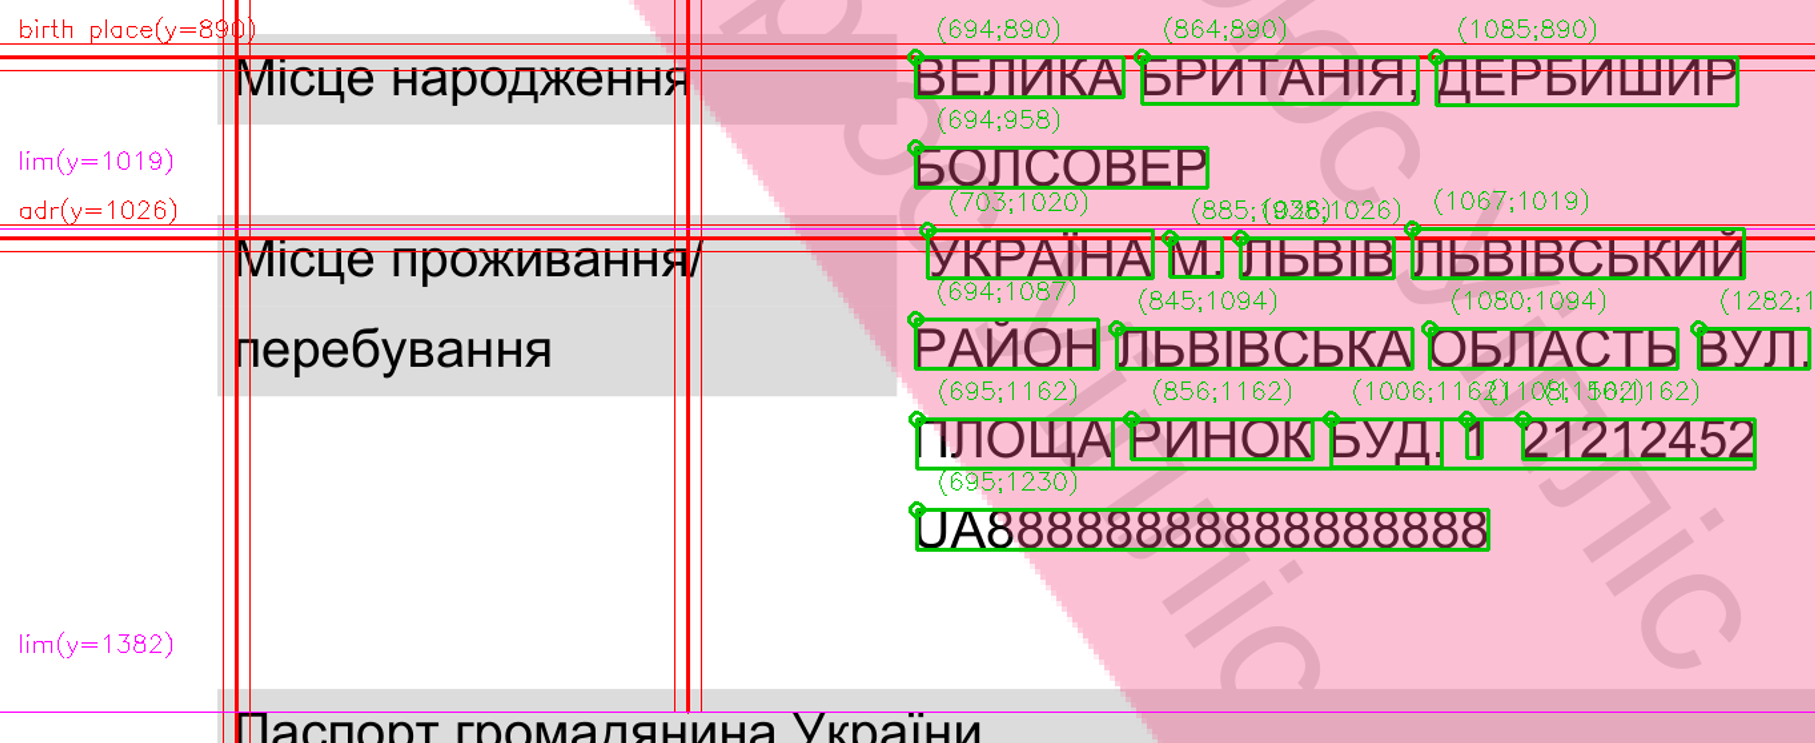
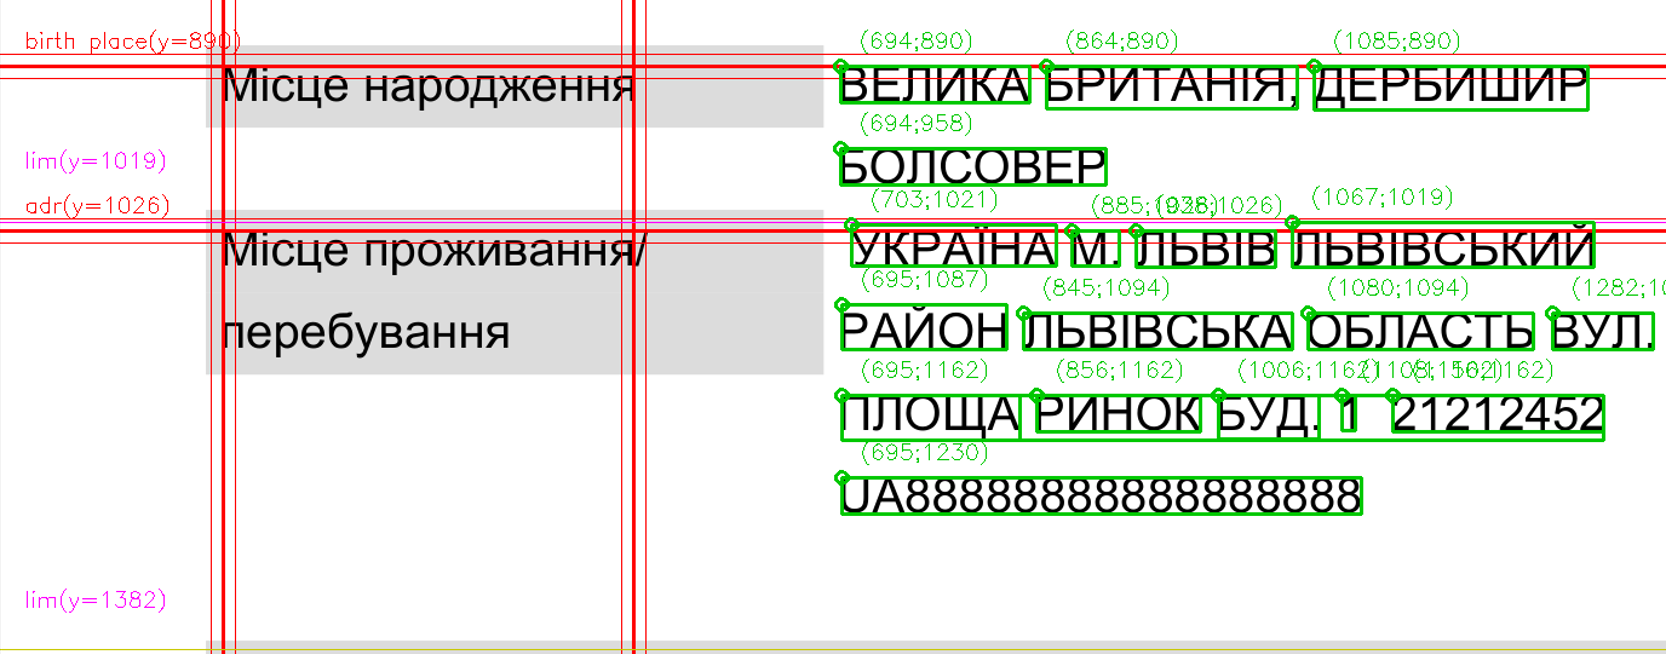
dist nuitka

diff --git a/person_builder.py b/person_builder.py
@@ -10,20 +10,20 @@ import cv2
 
 OFFSET = 10             # можлива похибка при визначенні меж боксу слова (у пікселях)
 ROW_HEIGHT = (68+2)     # типова висота рядку у пікселях (для крокування)
-BLANK_MIN = 355         # межі значення номеру бланку по х
-BLANK_MAX = 635         # межі значення номеру бланку по х
-CREATED_MIN = 923       # межі значення дати видачі по х
-CREATED_MAX = 1202      # межі значення дати видачі по х
-EXPIRED_MIN = 1490      # початок значення "Дійсний до" по х
+BLANK_MIN = 345         # межі значення номеру бланку по х
+BLANK_MAX = 600         # межі значення номеру бланку по х
+CREATED_MIN = 900       # межі значення дати видачі по х
+CREATED_MAX = 1100      # межі значення дати видачі по х
+EXPIRED_MIN = 1450      # початок значення "Дійсний до" по х
 OFFICE_TIT_X = 183      # початок заголовку "Орган видачі" по х
-OFFICE_VAL_X = 465      # початок значення "Орган видачі" по х
+OFFICE_VAL_X = 450      # початок значення "Орган видачі" по х
 
 C_R = (0, 0, 255)
 C_G = (0, 200, 0)
 C_B = (255, 0, 0)
 C_M = (255, 0, 255)
 C_C = (255, 0, 255)
-C_Y = (0, 255, 255)
+C_Y = (0, 200, 200)
 
 DEF_COLOR = C_G
 TEXT_DEF_THICK = 1
@@ -141,7 +141,15 @@ class PersonProfile:
         self._get_pass_int()
         self._get_pass_ext()
         self.image = person_photo if person_photo else None
-        cv2.imwrite("result.png", self.pic)
+
+    def save_ocr_plot(self):
+        try:
+            cv2.imwrite(f"{self.code_tax}_result.png", self.pic)
+            return ''
+        except Exception as err:
+            return err
+
+
 
     def __str__(self):
         desc_text = f'{self.name_full}, {self.dob} р.н.:' \
@@ -415,10 +423,10 @@ class PersonProfile:
 
         # Пошук закінчення секції:
         for i, (x, y, t, h, w, c) in enumerate(zip(self.data['left'], self.data['top'], self.data['text'], self.data['height'], self.data['width'], self.data['conf'])):
-            if (y > birth_title_y_loc) and ((self.inline_title - OFFSET) < x < (self.inline_title + OFFSET)):
-                if not (str(t).startswith('Місце') | str(t).startswith('народження')):
+            if (y > birth_title_y_loc) and ((self.inline_title - OFFSET) < x < (self.inline_value - OFFSET*5)):
+                if not (str(t).startswith('Місце') | str(t).startswith('народження') | (not bool(t))):
                     next_section_y_loc = y
-                    self.pic = cv2.line(self.pic, (0, y), (PAGE_W, y), C_M, 1)
+                    self.pic = cv2.line(self.pic, (0, y - OFFSET*2), (PAGE_W, y - OFFSET*2), C_M, 1)
                     self.pic = d_text(self.pic, 5, y-30, f'lim(y={y})', color=C_M)
                     break
 
@@ -429,7 +437,7 @@ class PersonProfile:
         # Збір слів з ділянки, яка містить значення місця народження:
         result_list = []
         for i, (x, y, t, h, w, c) in enumerate(zip(self.data['left'], self.data['top'], self.data['text'], self.data['height'], self.data['width'], self.data['conf'])):
-            if x > (self.inline_value - OFFSET) and (birth_title_y_loc - OFFSET) < y < (next_section_y_loc - OFFSET):
+            if x > (self.inline_value - OFFSET) and (birth_title_y_loc - OFFSET) < y < (next_section_y_loc - OFFSET*2):
                 result_list.append(t)
                 self.pic = d_elem(self.pic, x, y, h, w, C_G, desc=f'({x};{y})')
         if result_list:
@@ -508,7 +516,7 @@ class PersonProfile:
         for p in place_occur:
             if not adr_title_y_loc:
                 for liv in living_occur:
-                    if abs(p-liv) <= ROW_HEIGHT + OFFSET:  # Місце, де слова "Місце" та "проживання" - поруч
+                    if abs(p-liv) <= ROW_HEIGHT - 5:  # Місце, де слова "Місце" та "проживання" - поруч
                         adr_title_y_loc = liv if liv <= p else p  # Розташування визначається за вищим словом (Місце)
         if adr_title_y_loc:
             self.pic = line_h(self.pic, adr_title_y_loc, C_R)
@@ -523,7 +531,7 @@ class PersonProfile:
                 t = str(t)
                 if not (t.startswith('Місце') | t.startswith('проживання') | t.startswith('перебування') | (t == '')):
                     next_section_y_loc = y
-                    self.pic = cv2.line(self.pic, (0, y), (PAGE_W, y), C_M, 1)
+                    self.pic = cv2.line(self.pic, (0, y - OFFSET - 2), (PAGE_W, y - OFFSET - 2), C_M, 1)
                     self.pic = d_text(self.pic, 5, y-30, f'lim(y={y})', color=C_M)
                     break
         if next_section_y_loc is None:
@@ -578,6 +586,10 @@ class PersonProfile:
             if section_starts > section_ends:
                 return None, None
             else:
+                self.pic = line_h(self.pic, section_starts, C_Y)
+                self.pic = d_text(self.pic, 5, section_starts+40, f's_start(y={section_starts})', color=C_Y)
+                self.pic = line_h(self.pic, section_ends, C_Y)
+                self.pic = d_text(self.pic, 5, section_ends-5, f's_end(y={section_ends})', color=C_Y)
                 return section_starts, section_ends
         else:
             return None, None
@@ -589,6 +601,8 @@ class PersonProfile:
             if (section_start - OFFSET) < y < (section_end + OFFSET):
                 if str(t).startswith('Номер'):
                     kw_present.append(y)
+                    self.pic = d_elem(self.pic, x, y, h, w, color=C_M, desc=f'pass here(y={y})')
+                    self.pic = line_h(self.pic, y, C_M)
         if not kw_present:
             return None
 
@@ -622,34 +636,87 @@ class PersonProfile:
 
         # якщо тип документу потребує розпізнання англійських літер - пошук номеру бланку:
         if lang == 'eng':
-            for i, (x, y, t) in enumerate(zip(self.data_eng['left'], self.data_eng['top'], self.data_eng['text'])):
+            for i, (x, y, t, h, w, c) in enumerate(zip(self.data_eng['left'], self.data_eng['top'], self.data_eng['text'], self.data_eng['height'], self.data_eng['width'], self.data_eng['conf'])):
                 if ((y_min - OFFSET) < y < (y_min + OFFSET)) and ((BLANK_MIN - OFFSET) < x < (BLANK_MAX + OFFSET)):
-                    blank_present = re.search(r"([A-ZА-Я0-9ІЇЄ]{0,5}[\d]{6}$)", t)
+                    blank_present = re.search(r"([A-ZА-Я0-9ІЇЄ]{7,10}$)", t)
                     if blank_present:
                         blank = blank_present.group(1)
+                        self.pic = d_elem(self.pic, x, y, h, w, C_G, desc=f'({x};{y})')
+                        self.pic = d_rect(self.pic,
+                                          x=BLANK_MIN - OFFSET,
+                                          y=y_min - OFFSET,
+                                          h=(y_min + OFFSET) - (y_min - OFFSET),
+                                          w=BLANK_MAX - BLANK_MIN,
+                                          color=C_B, line=1)
+                        self.pic = d_text(self.pic,
+                                          BLANK_MIN - 25,
+                                          y_min + 13,
+                                          'search_area',
+                                          color=C_B, thick=1,
+                                          size=0.4)
                         break
 
         # проходження по всім записам з вибіркою атрибутів ДокументІД у вже відомих позиціях:
         for i, (x, y, t, h, w, c) in enumerate(zip(self.data['left'], self.data['top'], self.data['text'], self.data['height'], self.data['width'], self.data['conf'])):
             if lang == 'ukr':
                 if ((y_min - OFFSET) < y < (y_min + OFFSET)) and ((BLANK_MIN - OFFSET) < x < (BLANK_MAX + OFFSET)):
-                    blank_present = re.search(r"([A-ZА-Я0-9ІЇЄ]{0,4}[\d]{6}$)", t)
+                    blank_present = re.search(r"([A-ZА-Я0-9ІЇЄ]{7,10}$)", t)
                     if blank_present:
                         blank = blank_present.group(1)
+                        self.pic = d_elem(self.pic, x, y, h, w, C_G, desc=f'({x};{y})')
+                        self.pic = d_rect(self.pic,
+                                          x=BLANK_MIN - OFFSET,
+                                          y=y_min - OFFSET,
+                                          h=(y_min + OFFSET) - (y_min - OFFSET),
+                                          w=BLANK_MAX - BLANK_MIN,
+                                          color=C_B, line=1)
+                        self.pic = d_text(self.pic,
+                                          BLANK_MIN - 25,
+                                          y_min + 13,
+                                          'search_area',
+                                          color=C_B, thick=1,
+                                          size=0.4)
 
             # Дата видачі:
             if ((y_min - OFFSET) < y < (y_min + OFFSET)) and ((CREATED_MIN - OFFSET) < x < (CREATED_MAX + OFFSET)):
                 created_present = re.search(r"(\d{2}.\d{2}.\d{4})", t)
                 if created_present:
                     date_created = created_present.group(1)
+                    self.pic = d_elem(self.pic, x, y, h, w, C_G, desc=f'({x};{y})')
+                    self.pic = d_rect(self.pic,
+                                      x=CREATED_MIN - OFFSET,
+                                      y=y_min - OFFSET,
+                                      h=(y_min + OFFSET) - (y_min - OFFSET),
+                                      w=CREATED_MAX - CREATED_MIN,
+                                      color=C_B, line=1)
+                    self.pic = d_text(self.pic,
+                                      CREATED_MIN - 25,
+                                      y_min + 13,
+                                      'search_area',
+                                      color=C_B, thick=1,
+                                      size=0.4)
             # Дійсний до:
             if ((y_min - OFFSET) < y < (y_min + OFFSET)) and ((EXPIRED_MIN - OFFSET) < x):
                 expired_present = re.search(r"(\d{2}.\d{2}.\d{4})", t)
                 if expired_present:
                     date_expired = expired_present.group(1)
+                    self.pic = d_elem(self.pic, x, y, h, w, C_G, desc=f'({x};{y})')
+                    self.pic = d_rect(self.pic,
+                                      x=EXPIRED_MIN - OFFSET,
+                                      y=y_min - OFFSET,
+                                      h=(y_min + OFFSET) - (y_min - OFFSET),
+                                      w=PAGE_W - EXPIRED_MIN - 10,
+                                      color=C_B, line=1)
+                    self.pic = d_text(self.pic,
+                                      EXPIRED_MIN - 25,
+                                      y_min + 13,
+                                      'search_area',
+                                      color=C_B, thick=1,
+                                      size=0.4)
                 # Статус обмеження (недійсний/необмежений):
                 spec_status = re.search(r"(недійсним)|(необмежений)", t)
                 if spec_status:
+                    self.pic = d_elem(self.pic, x, y, h, w, C_G, desc=f'({x};{y})')
                     if spec_status.group(0) == 'недійсним':
                         expired_status = 'недійсний'
                     elif spec_status.group(0) == 'необмежений':
@@ -659,11 +726,33 @@ class PersonProfile:
                 office_title_present = re.search(r"(Орган)", t)
                 if office_title_present:
                     office_y = y
+                    self.pic = d_elem(self.pic, x, y, h, w, C_M, desc=f'({x};{y})')
+                    self.pic = d_rect(self.pic,
+                                      x=EXPIRED_MIN - OFFSET,
+                                      y=y_min - OFFSET,
+                                      h=(y_min + OFFSET) - (y_min - OFFSET),
+                                      w=PAGE_W - EXPIRED_MIN - 10,
+                                      color=C_B, line=1)
+                    self.pic = d_text(self.pic,
+                                      EXPIRED_MIN - 25,
+                                      y_min + 13,
+                                      'search_area',
+                                      color=C_B, thick=1,
+                                      size=0.4)
+
         # Якщо знайдено заголовок органу видачі - вибрати весь текст до кінця секції документу:
         if office_y:
+            self.pic = d_rect(self.pic,
+                              OFFICE_VAL_X,
+                              office_y - OFFSET,
+                              (y_max - OFFSET-2) - (office_y - OFFSET),
+                              PAGE_W - OFFICE_VAL_X,
+                              color=C_B, line=1)
+            self.pic = d_text(self.pic, OFFICE_VAL_X - 10, office_y + 13, 'search_area', color=C_B, thick=1, size=0.4)
             for i, (x, y, t, h, w, c) in enumerate(zip(self.data['left'], self.data['top'], self.data['text'], self.data['height'], self.data['width'], self.data['conf'])):
                 if ((office_y - OFFSET) < y < (y_max - OFFSET)) and ((OFFICE_VAL_X - OFFSET) < x):
                     office_lines.append(t)
+                    self.pic = d_elem(self.pic, x, y, h, w, C_G, desc=f'({x};{y})')
         if office_lines:
             office_string = ' '.join(office_lines)
             office_string = office_string.strip()

diff --git a/main.py b/main.py
@@ -1,7 +1,7 @@
 """
 Project page: github.com/OlehOleinikov/easy_DMS
 License:      GNU GPL v.3
-Version:      0.4-beta (patch 23.02.23)
+Version:      0.4-beta (patch 24.02.23)
 """
 
 import os
@@ -18,9 +18,6 @@ from ms_word_editor import DocEditor
 from intro import intro_ascii
 from melody import melody_loop
 
-
-DEBUG_MODE = True  # some reports for developing purposes
-
 melody = melody_loop()  # beeps
 person_cards = []       # converted profiles
 errors_dict = {}        # errors
@@ -29,7 +26,7 @@ string_report = ''      # finish report
 # Intro:
 rprint('[#FF00FF]' + 'Project page: github.com/OlehOleinikov/easy_DMS\n'
                      'License:      GNU GPL v.3\n'
-                     'Version:      0.4-beta (patch 23.02.23)' + '[/#FF00FF]')
+                     'Version:      0.4-beta (patch 24.02.23)' + '[/#FF00FF]')
 rprint(intro_ascii)
 rprint('[#FF00FF]Scanning...\n')
 
@@ -124,8 +121,15 @@ try:
 except Exception as err:
     rprint(f'[#FF0000]MS Word save error - check permission or close file in other app - {err}\n')
 
-
-
-
+# The End pause:
 next(melody)
-input()
+end_word = input()
+
+# Generate debug images (*.png with OCR mesh):
+if end_word == 'plot':
+    ocr_plot_log = ''
+    for p_index in tqdm(range(len(person_cards)), bar_format='{l_bar}{bar:45}{r_bar}{bar:-45b}'):
+        person = person_cards[p_index]
+        person.save_ocr_plot()
+
+

diff --git a/README.md b/README.md
@@ -4,22 +4,35 @@ PDF person profile to MS Word document
 
 ![](app_icon.ico)
 
-### Goals
+## SUBJECT
 
 The target documents contain uneven placement of elements and watermarks, which makes it difficult to extract information using conventional methods (such as a pdf miner). Testing by parsing the text stream showed that the extracted text is mixed between blocks and may lead to unpredictable distortion of results or loss (skipping) of data during further report generation.
 
 Successful conversion of documents was achieved by converting the content of the PDF file into a graphic image followed by OCR processing. The position of the elements in the form of coordinates allows you to accurately extract the necessary part of the text in each case.
 
+## OCR processing
 
-### PDF view
+### PDF overview
 
 ![](demo/p_5.png)
 
-### Converted to MS Word
+### Single row fields parsing
+
+![](demo/ocr1.png)
+
+### Multiple row fields parsing
+
+![](demo/ocr2.png)
+
+### Section parsing
+
+![](demo/ocr3.png)
+
+## Convert to MS Word
 
 ![](demo/p_4.png)
 
-### Program execution
+## Program execution
 
 1. Reading *.pdf files
 2. Converting to binary image
@@ -29,6 +42,7 @@ Successful conversion of documents was achieved by converting the content of the
 
 ![](demo/p_1.png)
 
+## App assemble 
 
 ### Used modules:
 Main:
@@ -52,4 +66,4 @@ Additional:
 
 ### Program assembly for Windows (*.exe)
 
-pyinstaller --add-data "C:\_easy_dms\venv\Lib\site-packages;."  --icon C:/_easy_dms/bitmap.ico --name easy_dms C:/_easy_dms/main.py
+pyinstaller --add-data "C:\_easy_dms\venv\Lib\site-packages;." --add-data "C:\_easy_dms\tess;tess"  --paths "fullpath-to-custom-libraries" --onefile --noconfirm --icon C:/_easy_dms/app_icon.ico --name easy_dms C:/_easy_dms/main.py
